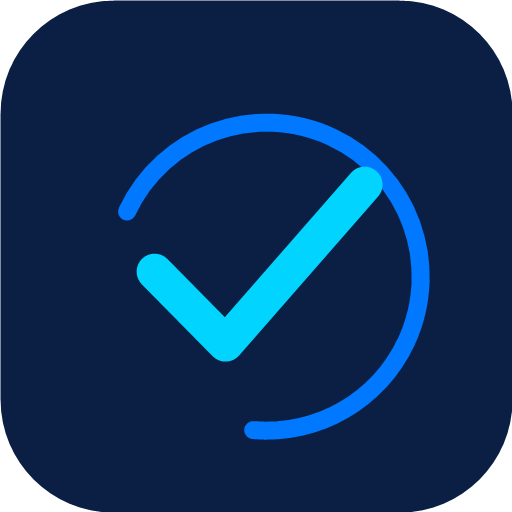
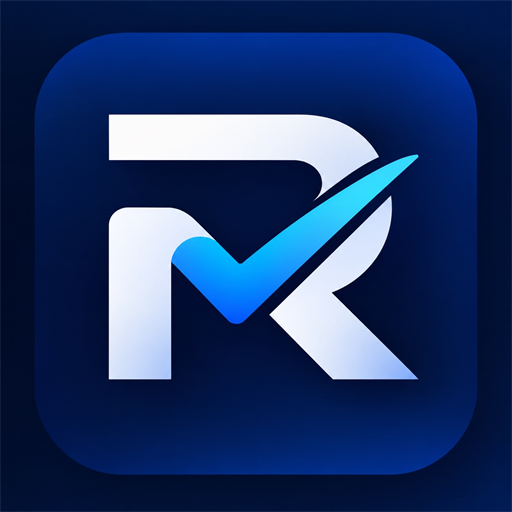
brand: adopt the owner's brand suite v2.0 and verify the README AOT claim
The owner supplied icon and lockup artwork (ResultusIcon suite): the
assets in assets/branding are now the owner's fixed raster art - icon
512x512 from the 1254 master, three lockup cards cut from the suite
(navy, white, mono) - replacing the locally rendered v1 set entirely.
Guidelines record the owner's brand values and lock the wordmark as
artwork, never re-typeset from a font.

Both README editions gain a Runtime compatibility section, approved by
the owner: trimming and Native AOT are verified by the observed
publish-and-run (CI job aot-smoke, run 42653755212), scoped to what the
smoke exercises - the core result types and the AOT-safe
ResultJsonConverter<T>(JsonTypeInfo<T>) surface. CHANGELOG [Unreleased]
records the same proof, superseding the 0.0.1 Notes tag-historical line.

Pack verified: the nupkg carries the owner's icon; README parity
symmetric; suite unchanged.

diff --git a/odd/tasks/brand-identity.md b/odd/tasks/brand-identity.md
@@ -58,3 +58,25 @@ The `PackageReadmeFile` addition is the owner's own config and is safe to adopt:
 - `dotnet build ResulTus.slnx` → 0 warnings / 0 errors. `dotnet test --no-build` → **670 passed, 0 failed, 0 skipped**.
 - README parity re-measured symmetrically: **25/25 headings, 405/405 numeric tokens** across the two editions.
 - The CI workflow runs the same build+test on push; its result is the third, independent gate.
+
+### L3 — owner-supplied brand suite v2.0 replaces the rendered assets (2026-11-09)
+
+**Owner, with the two files (`ResultusIconSuite.jpeg`, `ResultusIcon.jpeg`):**
+
+> mira he hecho unos logos un una suite completa de logos
+
+The owner's own artwork supersedes the locally rendered set — the owner defines the identity. What changed in `assets/branding/`:
+
+- `icon.png` — the owner's 1254×1254 master, downsampled to 512×512 PNG (192,964 B, under NuGet's 1 MB limit). JPEG→PNG conversion and bicubic resample only; no redesign.
+- `logo-dark.png`, `logo-light.png`, `logo-mono.png` — the three lockup cards cropped from the owner's suite sheet (1536×1024), visually verified after cutting: navy card for dark, white card for light, solid black for print.
+- `brand-guidelines.md` — the lockup set is the owner's fixed raster art, no longer re-typeset from Inter; the Inter roles remain for material that needs new text. The owner's brand values (Reliable, Performant, Flexible, Developer First) are recorded.
+
+The README `<picture>` markup kept the same filenames, so both editions gained the new art without a markup change. Pack verified: the `nupkg` carries the owner's icon (structure otherwise unchanged, 0 warnings / 0 errors pack). README parity stays symmetric (26/26 headings, 408/408 numeric tokens).
+
+### L4 — the README AOT claim the owner approved (2026-11-09)
+
+**Owner, verbatim:**
+
+> tambien dale a esto: el AOT tiene prueba observada. Publicar "Native AOT compatible" en el README es una decisión de wording tuya
+
+Both README editions gained `## Runtime compatibility` (identical structure, translated) stating that trimming and Native AOT are **verified by an observed publish-and-run** in CI, citing the `aot-smoke` job and run `42653755212`, and scoping the claim to what the smoke actually exercises: the core result types plus the AOT-safe System.Text.Json surface. The factory-based registration stays recommended for non-AOT apps. `CHANGELOG.md`'s `[Unreleased]` gained a **Verified** section with the same run id. The 0.0.1 `Notes` line "not proven by a published publish-and-run result" stays untouched — it describes the tag truthfully and is superseded in `[Unreleased]`, exactly per the S3 rule.

diff --git a/assets/branding/brand-guidelines.md b/assets/branding/brand-guidelines.md
@@ -22,25 +22,26 @@ orbit arc around the check.
 
 ## Typography
 
-ResulTus uses [Inter][inter] (SIL Open Font License).
+Documentation uses [Inter][inter] (SIL Open Font License): body text, **Inter
+SemiBold** for titles when custom typesetting is needed.
 
-- **Inter** — body text and documentation.
-- **Inter SemiBold** — titles.
-- **Inter ExtraBold** — the logotype. The wordmark is always the exact string
-  `ResulTus` with that casing: capital R, capital T, no space.
-
-The logo PNGs in `assets/branding/` were rendered from the official
-`Inter-ExtraBold.ttf`, so no font installation is needed to reproduce them;
-the rendering script parameters live in this repository's history.
+The wordmark and the mark are **owner-supplied artwork** (brand suite v2.0,
+November 2026, `assets/branding/*.png` rendered from the owner's own files) —
+they are fixed raster art, not a font. When text needs to *read* as the brand
+in new material, use Inter ExtraBold and respect the wordmark casing: the
+exact string `ResulTus`, capital R, capital T, no space. Never re-typeset the
+logo from a font.
 
 ## Official variants
 
 | File | Use |
 | --- | --- |
-| [`icon.png`][icon] | NuGet package icon and GitHub avatar |
-| [`logo-dark.png`][dark] | Documentation on dark backgrounds |
-| [`logo-light.png`][light] | Documentation on light backgrounds |
-| [`logo-mono.png`][mono] | Print and monochrome uses (solid black, check knocked out in white) |
+| [`icon.png`][icon] | NuGet package icon and GitHub avatar (512×512, from the owner's 1254×1254 master) |
+| [`logo-dark.png`][dark] | Documentation on dark backgrounds (navy lockup card) |
+| [`logo-light.png`][light] | Documentation on light backgrounds (white lockup card) |
+| [`logo-mono.png`][mono] | Print and monochrome uses (solid black lockup) |
+
+Owner's brand values: **Reliable, Performant, Flexible, Developer First**.
 
 The READMEs pick dark/light automatically with a `<picture>` element. Print
 uses the monochrome variant only — never reinterpret the palette in CMYK.

diff --git a/README.es.md b/README.es.md
@@ -420,6 +420,10 @@ Origen array, N = 1.000 elementos totalmente exitosos:
 
 [Sección completa](docs/performance.md#validation-conversions--1000-issues--measured-2026-11-06). `ToDictionary` materializa el diccionario agrupado y los arrays de mensajes por campo sobre 1.000 incidencias; `ToError` crea el mensaje de resumen y un `Error` de tipo valor.
 
+## Compatibilidad de runtime
+
+Las bibliotecas apuntan a `net8.0`. El trimming y el Native AOT están **verificados por un publish-and-run observado** en cada push de CI (job `aot-smoke`, runner `windows-latest`; p. ej. la corrida [42653755212](https://github.com/sergteje/ResulTus/actions/runs/42653755212)): una aplicación de consola, publicada tanto trimmed como nativamente, ejecuta los tipos core del resultado y la superficie AOT-safe de System.Text.Json — `ResultJsonConverter<T>(JsonTypeInfo<T>)` — pasando todas sus aserciones. En aplicaciones AOT, registra los convertidores por esa superficie; el registro por fábrica sigue siendo el camino ordinario para apps que no compilan AOT.
+
 ## Respuestas HTTP como resultados
 
 `ResulTus.HttpClient` es un paquete opcional e independiente que convierte una respuesta HTTP, un documento ProblemDetails RFC 9457 y un fallo de transporte en un resultado en lugar de una excepción. Nunca reintenta, nunca lanza por fallos HTTP ordinarios y nunca dispone del `HttpClient` ni del `HttpRequestMessage` del llamador. El módulo completo está documentado en [`docs/httpclient.md`](docs/httpclient.md).

diff --git a/CHANGELOG.md b/CHANGELOG.md
@@ -12,7 +12,11 @@ defines it, means the public API may still change between minor releases.
 
 - **CI/CD** — GitHub Actions: a `ci.yml` job builds the solution and runs the full test suite on every push to `main` and on every pull request, a `release.yml` job builds, tests and publishes to NuGet on every new `v*` tag, and a Native AOT job publishes and runs the AOT smoke application both trimmed and natively on `windows-latest` (CI run `42653755212`, both jobs green) — the publish-and-run proof the 0.0.1 notes could not make.
 - **Packaging** — the package icon and the canonical README are carried inside every `nupkg` (`PackageIcon`, `PackageReadmeFile`), and search tags were added to the shared metadata.
-- **Brand identity** — the official mark, the dark/light/print variants and the usage guidelines live in `assets/branding/`, consumed by both README editions.
+- **Brand identity** — the official mark, the dark/light/print variants and the usage guidelines live in `assets/branding/`, now supplied as owner artwork (brand suite v2.0) and consumed by both README editions.
+
+### Verified
+
+- **Trimming and Native AOT** are run-verified in CI (`aot-smoke`, run `42653755212`, green): a console application published both trimmed and natively executes the core result types plus the AOT-safe System.Text.Json surface, passing every assertion. Both README editions carry the runtime-compatibility section.
 
 ## [0.0.1] - 2026-11-08
 

diff --git a/README.md b/README.md
@@ -420,6 +420,10 @@ Array source, N = 1,000 fully successful elements:
 
 [Full section](docs/performance.md#validation-conversions--1000-issues--measured-2026-11-06). `ToDictionary` materializes the grouped dictionary and per-field message arrays over 1,000 issues; `ToError` creates the summary message and a value-type `Error`.
 
+## Runtime compatibility
+
+Libraries target `net8.0`. Trimming and Native AOT are **verified by an observed publish-and-run** on every CI push (job `aot-smoke`, runner `windows-latest`; e.g. run [42653755212](https://github.com/sergteje/ResulTus/actions/runs/42653755212)): a console application published both trimmed and natively executes the core result types and the AOT-safe System.Text.Json surface — `ResultJsonConverter<T>(JsonTypeInfo<T>)` — passing every assertion. Register converters through that surface in AOT applications; the factory-based convenience registration remains the ordinary path for non-AOT apps.
+
 ## HTTP responses as results
 
 `ResulTus.HttpClient` is a separate, optional package that turns an HTTP response, an RFC 9457 ProblemDetails document and a transport failure into a result instead of an exception. It never retries, never throws for ordinary HTTP failures, and never disposes the caller's `HttpClient` or `HttpRequestMessage`. The full module is documented in [`docs/httpclient.md`](docs/httpclient.md).
